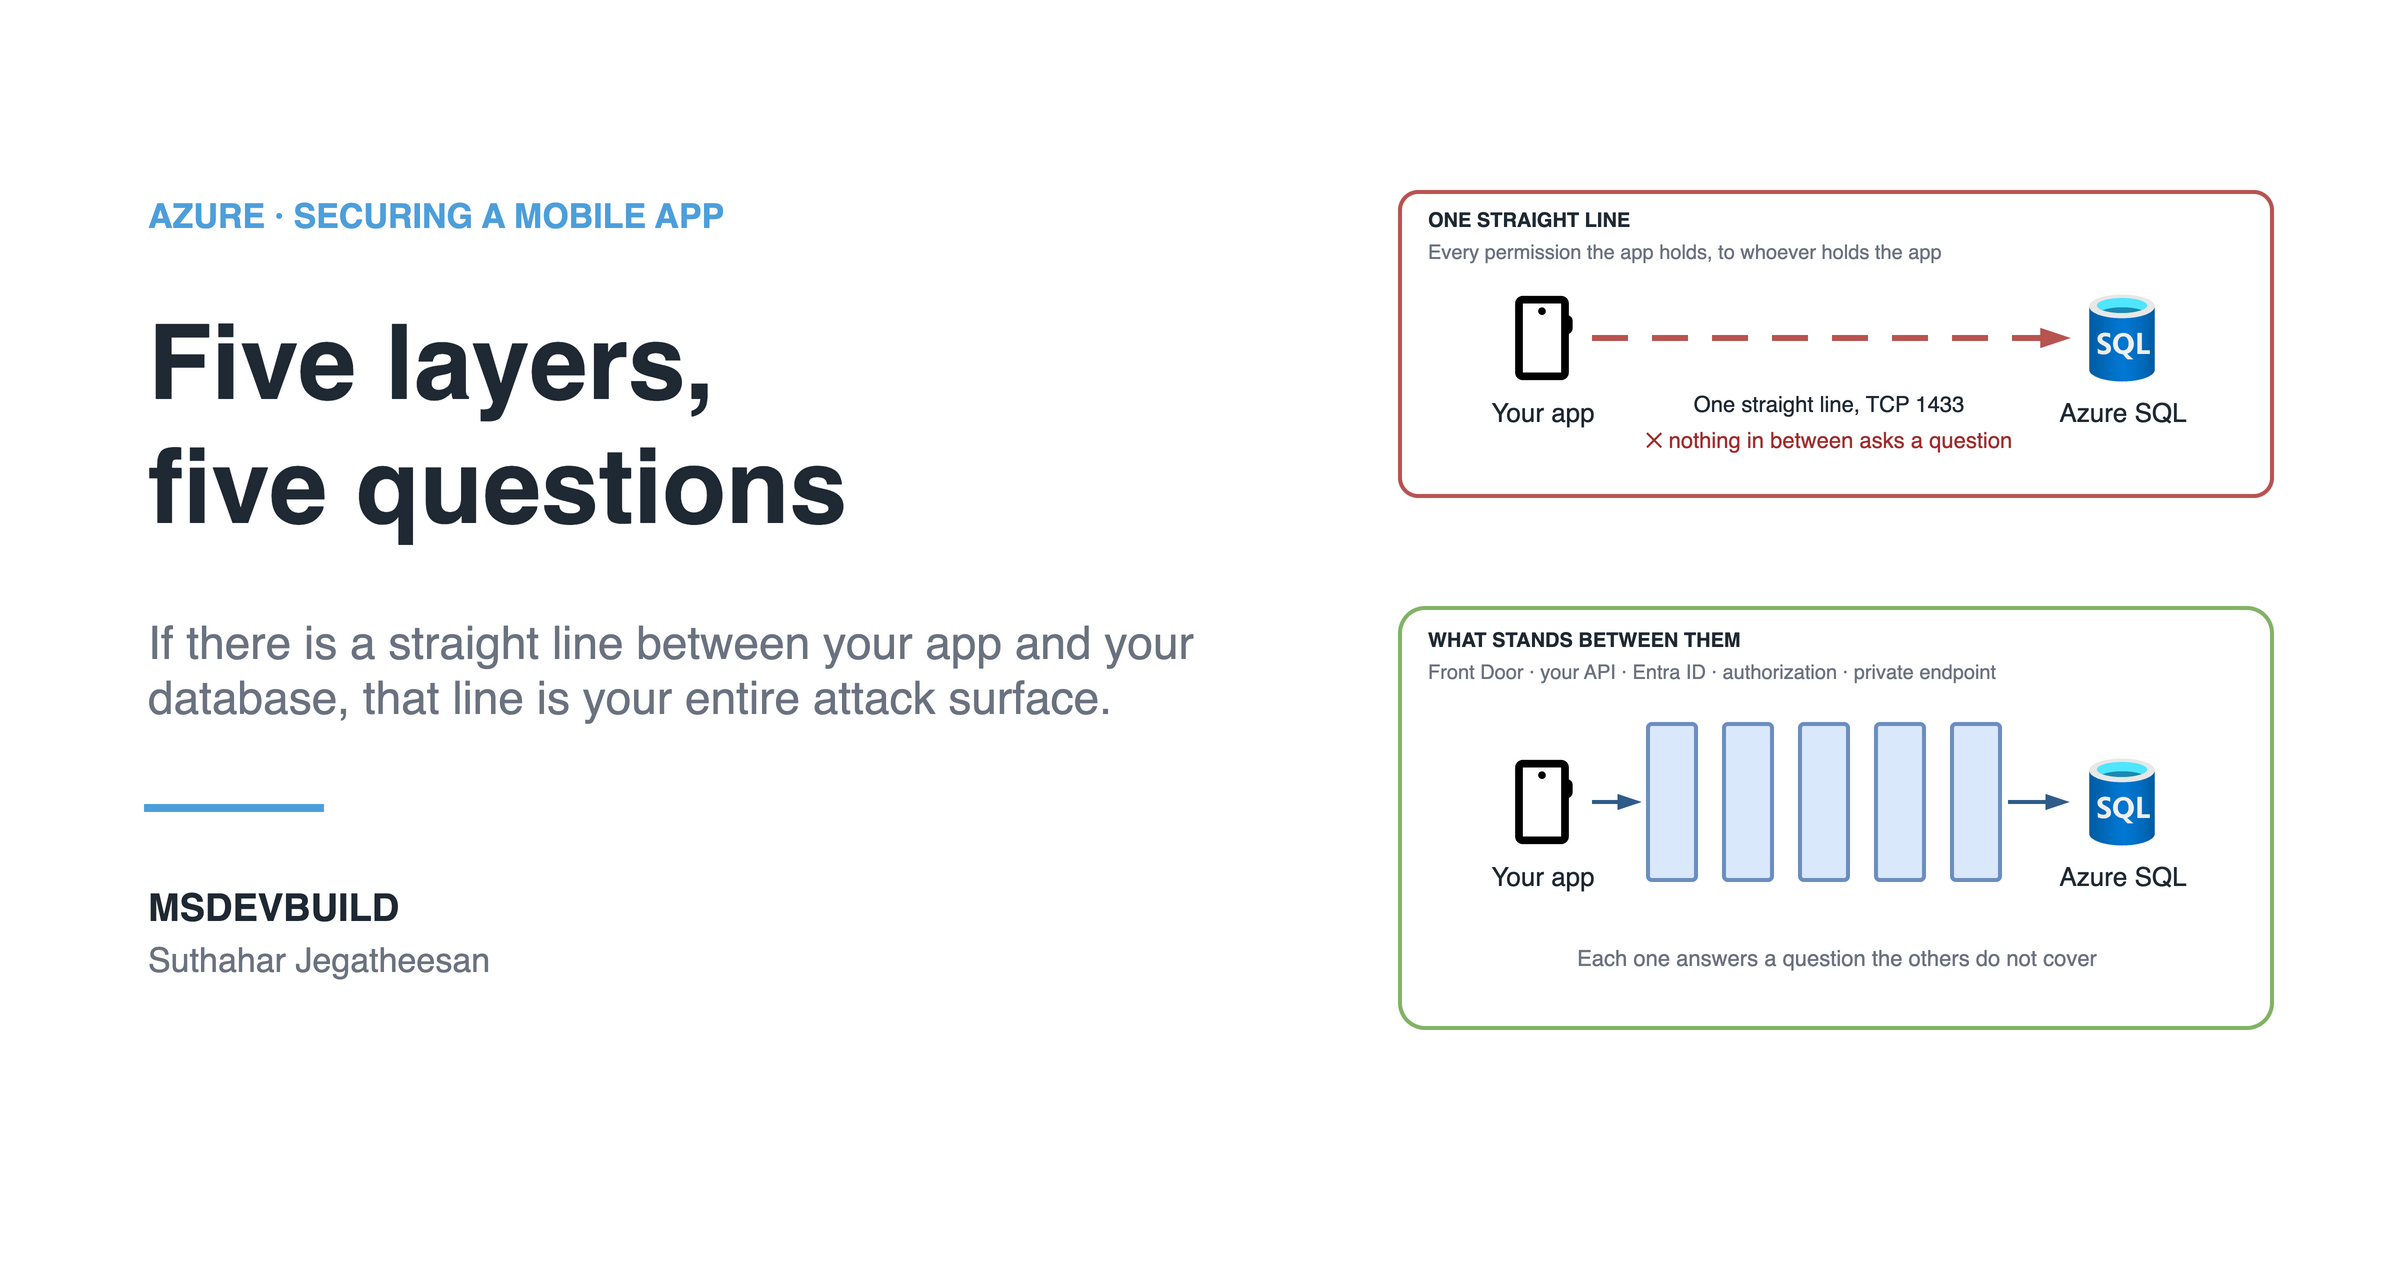
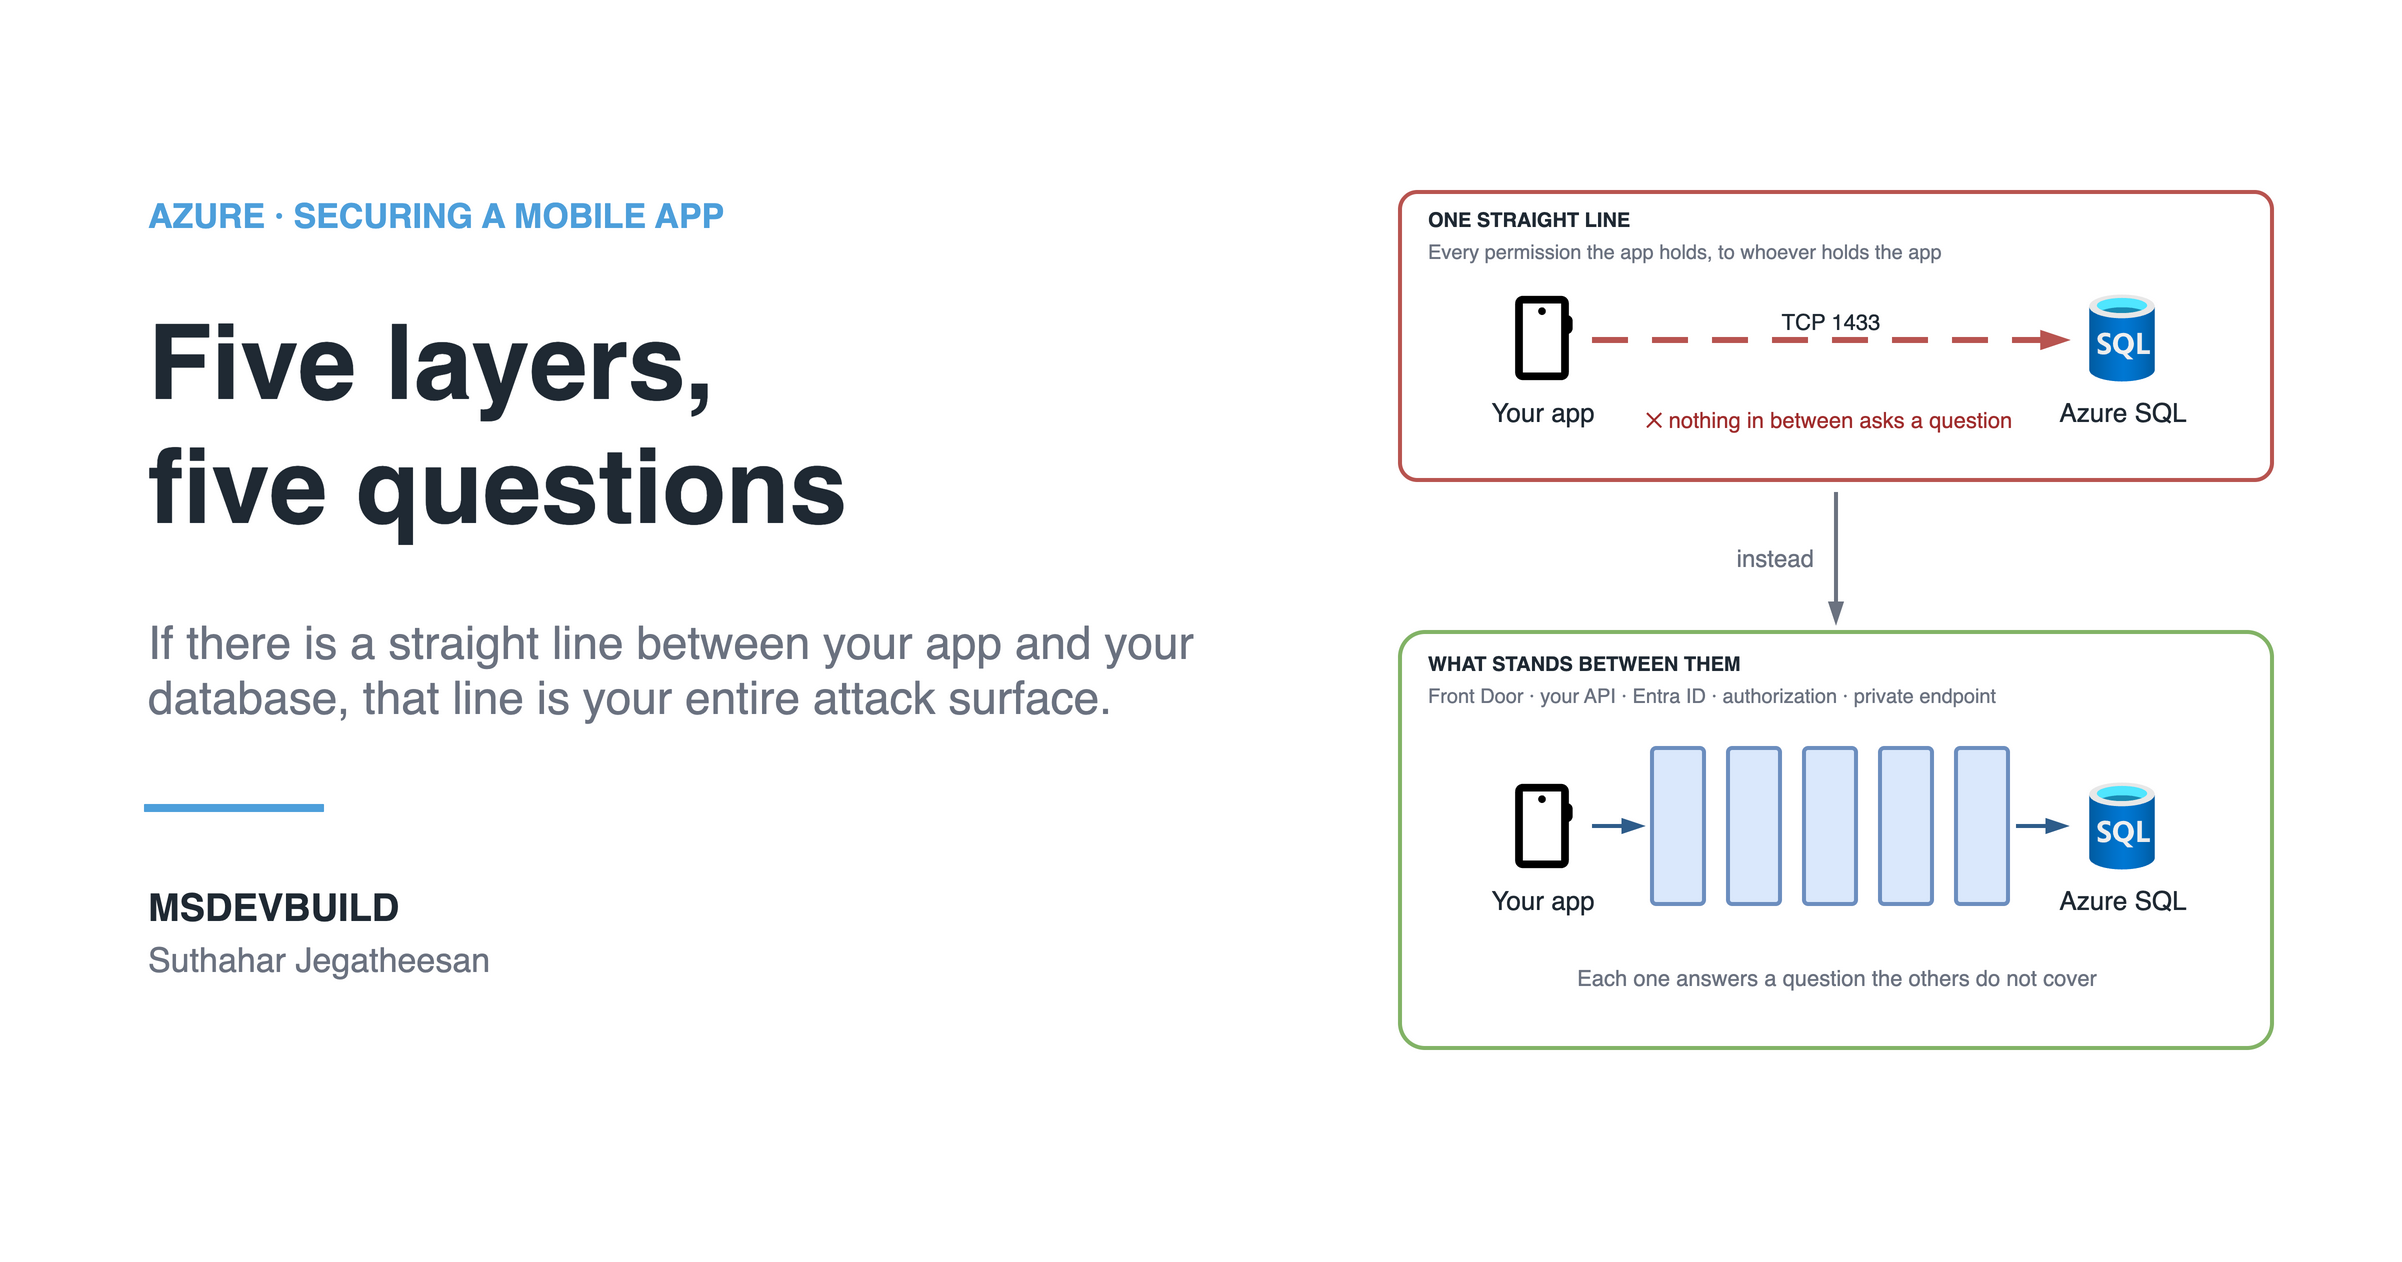
Updated

Changed region(s): [[0.562, 0.4326, 0.9679, 0.8344], [0.562, 0.309, 0.9367, 0.4017], [0.7182, 0.2472, 0.7806, 0.2781]]

diff --git a/src/content/blog/azure-mobile-security/azure-mobile-app-layers/diagrams/banner.py b/src/content/blog/azure-mobile-security/azure-mobile-app-layers/diagrams/banner.py
@@ -49,34 +49,41 @@ PHONE_X, SQL_X = 748, 1038      # icon left edges, both rows
 ICON = 46
 
 # Row 1 - the straight line. Red frame, red dashed edge, nothing in between.
-c.append(frame("bad", "", FX, 96, FW, 152, stroke=RED_S))
+c.append(frame("bad", "", FX, 96, FW, 144, stroke=RED_S))
 c.append(text("badn", "ONE STRAIGHT LINE", FX + 12, 102, FW - 24, 16, size=10, bold=True))
 c.append(text("badr", "Every permission the app holds, to whoever holds the app",
               FX + 12, 119, FW - 24, 14, size=10, color=MUTED))
 c.append(node("app1", "Your app", "material/smartphone.svg", PHONE_X, 146, ICON, ICON))
 c.append(node("sql1", "Azure SQL", "azure/sql-database.svg", SQL_X, 146, ICON, ICON))
-c.append(free_edge("line", PHONE_X + ICON + 2, 169, SQL_X - 4, 169,
+# The port rides above the line rather than on it, so the one straight line
+# stays one unbroken straight line - which is the whole shape being argued with.
+c.append(free_edge("line", PHONE_X + ICON + 2, 170, SQL_X - 4, 170, "TCP 1433",
                    dashed=True, color=RED_S, width=3))
-c.append(text("l1", "One straight line, TCP 1433", 804, 194, 220, 16, size=11, align="center"))
-c.append(text("l2", "✕ nothing in between asks a question", 804, 212, 220, 16,
+c.append(text("l2", "✕ nothing in between asks a question", 794, 202, 240, 16,
               size=11, color=RED_T, align="center"))
+
+# Between the rows, so the two are read as one argument and not as two
+# unrelated boxes that happen to share a card.
+c.append(free_edge("swap", 918, 246, 918, 312, color=MUTED, width=2))
+c.append(text("swapt", "instead", 790, 269, 118, 20, size=12, color=MUTED, align="right"))
 
 # Row 2 - the same two boxes with the stack standing between them. The bars are
 # a fence on purpose: at 400px wide in a feed it reads as "something is in the
 # way", which is all a card has to say.
-c.append(frame("good", "", FX, 304, FW, 210, stroke=GRN_S))
-c.append(text("goodn", "WHAT STANDS BETWEEN THEM", FX + 12, 312, FW - 24, 16, size=10, bold=True))
+c.append(frame("good", "", FX, 316, FW, 208, stroke=GRN_S))
+c.append(text("goodn", "WHAT STANDS BETWEEN THEM", FX + 12, 324, FW - 24, 16, size=10, bold=True))
 c.append(text("goodr", "Front Door · your API · Entra ID · authorization · private endpoint",
-              FX + 12, 329, FW - 24, 14, size=10, color=MUTED))
-c.append(node("app2", "Your app", "material/smartphone.svg", PHONE_X, 378, ICON, ICON))
-c.append(node("sql2", "Azure SQL", "azure/sql-database.svg", SQL_X, 378, ICON, ICON))
-BAR_X, BAR_W, BAR_GAP = 824, 24, 14
+              FX + 12, 341, FW - 24, 14, size=10, color=MUTED))
+c.append(node("app2", "Your app", "material/smartphone.svg", PHONE_X, 390, ICON, ICON))
+c.append(node("sql2", "Azure SQL", "azure/sql-database.svg", SQL_X, 390, ICON, ICON))
+BAR_X, BAR_W, BAR_GAP = 826, 26, 12
+BAR_END = BAR_X + 5 * BAR_W + 4 * BAR_GAP
 for n in range(5):
-    c.append(box(f"bar{n}", "", BAR_X + n * (BAR_W + BAR_GAP), 362, BAR_W, 78))
-c.append(free_edge("in", PHONE_X + ICON + 2, 401, BAR_X - 4, 401))
-c.append(free_edge("out", BAR_X + 5 * BAR_W + 4 * BAR_GAP + 4, 401, SQL_X - 4, 401))
+    c.append(box(f"bar{n}", "", BAR_X + n * (BAR_W + BAR_GAP), 374, BAR_W, 78))
+c.append(free_edge("in", PHONE_X + ICON + 2, 413, BAR_X - 4, 413))
+c.append(free_edge("out", BAR_END + 4, 413, SQL_X - 4, 413))
 c.append(text("note", "Each one answers a question the others do not cover",
-              FX + 12, 470, FW - 24, 18, size=11, color=MUTED, align="center"))
+              FX + 12, 480, FW - 24, 18, size=11, color=MUTED, align="center"))
 
 out = pathlib.Path(sys.argv[1]) / "azure-mobile-app-security-layers-cover.drawio"
 out.write_text(wrap("Cover", c, pad=0))

diff --git a/src/content/blog/azure-mobile-security/azure-mobile-app-layers/diagrams/README.md b/src/content/blog/azure-mobile-security/azure-mobile-app-layers/diagrams/README.md
@@ -1,14 +1,15 @@
 # Diagram sources
 
 The `.drawio` files here are the editable sources for the two figures in
-`azure-mobile-app-layers.md`. The exported PNGs live in `../images/` and are
-what the article references; Astro optimises them to WebP at several widths at
+`azure-mobile-app-layers.md`, plus the share banner. The exported PNGs live in
+`../images/` and are what the article references; Astro optimises them to WebP at several widths at
 build time.
 
 | File | Figure | Shape |
 | --- | --- | --- |
 | `mobile-app-direct-database-connection-attack-surface.drawio` | Figure 1 | The straight line the article opens on — app, database, one red edge |
 | `azure-mobile-app-five-security-layers-front-door-entra-private-endpoint.drawio` | Figure 2 | Layered — the five layers, each frame carrying its question |
+| `azure-mobile-app-security-layers-cover.drawio` | Share banner | 1200×630 — headline left, Figures 1 and 2 cut to one red row and one green row on the right |
 
 `README.md` is excluded from the blog content collection in
 `src/content.config.ts`, which is what lets this file sit beside a post.
@@ -17,6 +18,14 @@ build time.
 
 ```bash
 python3 src/content/blog/azure-mobile-security/azure-mobile-app-layers/diagrams/generate.py
+```
+
+`banner.py` writes the cover separately, taking the output directory as its one
+argument:
+
+```bash
+python3 src/content/blog/azure-mobile-security/azure-mobile-app-layers/diagrams/banner.py \
+        src/content/blog/azure-mobile-security/azure-mobile-app-layers/diagrams
 ```
 
 Then export each one, from the repo root:
@@ -32,6 +41,21 @@ Flag order matters: `--export --format ... --output ... <input>` works, `-x -f
 png -o ...` reports "input file/directory not found", and `--background` breaks
 the argument parsing — which is why the white backing is a rectangle baked into
 each diagram by `wrap()`. That also makes one asset readable on both themes.
+
+The banner carries a white `canvas` rectangle at exactly 1200×630 with
+`wrap(..., pad=0)`, so the export lands on the card, not on the bounding box of
+whatever sits furthest right. draw.io still adds a pixel each way: the export is
+2402×1262, and `src/pages/blog/[...slug].astro` re-emits it at exactly 1200×630.
+
+## What the banner leaves out
+
+The five layers are drawn as five unlabelled bars. Naming all five on the card
+turned the right half into a table, and a table is unreadable at the 400px width
+a feed actually renders — so the stack is only suggested, the headline carries
+the number, and the five real names ride along as one small muted line above it.
+Both rows reuse the same phone and the same database in the same two columns, so
+the only thing that changes between the red row and the green row is what stands
+in the middle, which is the article's argument in one glance.
 
 ## Two figures rather than one
 

diff --git a/src/content/blog/azure-mobile-security/azure-mobile-app-layers/azure-mobile-app-layers.md b/src/content/blog/azure-mobile-security/azure-mobile-app-layers/azure-mobile-app-layers.md
@@ -3,6 +3,8 @@ title: 'How Azure Protects a Mobile App: The Full Request Flow, Layer by Layer'
 seoTitle: 'How Azure Protects a Mobile App'
 description: 'Front Door, your API, Microsoft Entra ID, authorization and a private database — the five layers that stand between a mobile app and its data on Azure.'
 highlight: 'Authentication and authorization are two different questions. Entra ID proves who is calling; your API still has to decide what they may see, with a WHERE clause, not middleware.'
+cover: './images/azure-mobile-app-security-layers-cover.png'
+coverAlt: 'Share banner headed AZURE - SECURING A MOBILE APP and "Five layers, five questions", with the line "If there is a straight line between your app and your database, that line is your entire attack surface." On the right, a red panel titled ONE STRAIGHT LINE shows a phone joined to an Azure SQL database by a single dashed red arrow marked TCP 1433, noting that every permission the app holds goes to whoever holds the app and that nothing in between asks a question. An arrow marked "instead" leads to a green panel titled WHAT STANDS BETWEEN THEM - Front Door, your API, Entra ID, authorization, private endpoint - where five upright bars stand between the same phone and the same database, each one answering a question the others do not cover.'
 publishedAt: 2026-08-18
 category: azure
 categories: ['mobile']
